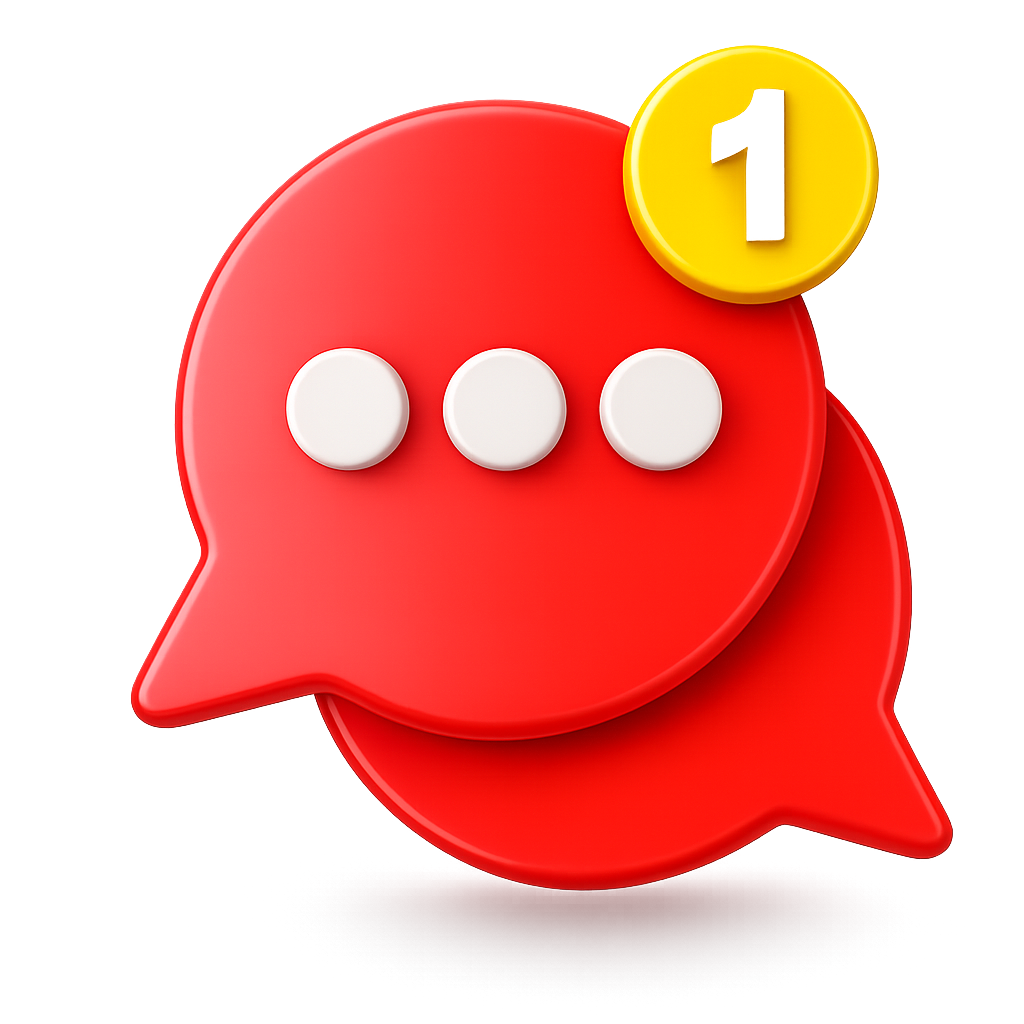
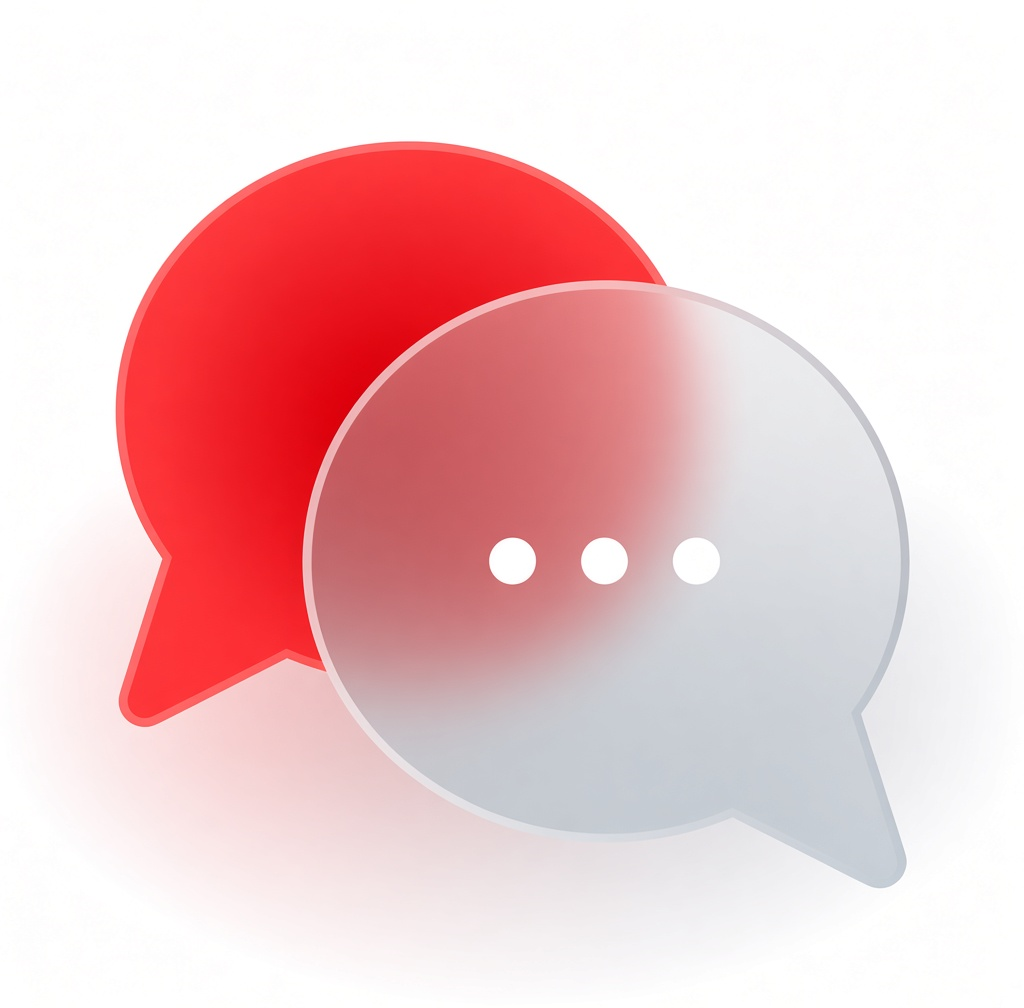
fix support pic

diff --git a/lib/features/support/screens/support_screen.dart b/lib/features/support/screens/support_screen.dart
@@ -18,7 +18,7 @@ class SupportScreen extends StatelessWidget {
 }
 
 class _SupportScreenContent extends StatefulWidget {
-  const _SupportScreenContent(); // خط زرد برطرف شد
+  const _SupportScreenContent();
 
   @override
   State<_SupportScreenContent> createState() => _SupportScreenContentState();
@@ -100,7 +100,6 @@ class _SupportScreenContentState extends State<_SupportScreenContent>
     );
   }
 
-  // پاپ آپ شیشهای مات با انیمیشن نرم
   void _showCreateTicketDialog(BuildContext context, bool isDark) {
     final subjectCtrl = TextEditingController();
     final orderIdCtrl = TextEditingController();
@@ -113,7 +112,7 @@ class _SupportScreenContentState extends State<_SupportScreenContent>
       backgroundColor: Colors.transparent,
       barrierColor: Colors.black54,
       builder: (_) {
-        bool isSubmitting = false; // متغیر برای مدیریت وضعیت دکمه
+        bool isSubmitting = false;
         return StatefulBuilder(
           builder: (context, setState) {
             return Padding(
@@ -127,7 +126,6 @@ class _SupportScreenContentState extends State<_SupportScreenContent>
                   child: Container(
                     padding: const EdgeInsets.all(24),
                     decoration: BoxDecoration(
-                      // رنگ بکگراند طبق CSS فرستاده شده
                       color: isDark
                           ? const Color.fromRGBO(36, 34, 34, 0.69)
                           : const Color.fromRGBO(250, 246, 246, 0.5),
@@ -202,7 +200,7 @@ class _SupportScreenContentState extends State<_SupportScreenContent>
                                 child: ElevatedButton(
                                   onPressed: isSubmitting ? null : () async {
                                     if (formKey.currentState!.validate()) {
-                                      setState(() => isSubmitting = true); // شروع لودینگ
+                                      setState(() => isSubmitting = true);
                                       final success = await context
                                           .read<SupportProvider>()
                                           .createTicket(
@@ -258,7 +256,6 @@ class _SupportScreenContentState extends State<_SupportScreenContent>
   }
 }
 
-// ویجت فیلد متنی برای پاپ آپ شیشهای
 class _GlassFormField extends StatelessWidget {
   const _GlassFormField({
     required this.controller,
@@ -298,7 +295,6 @@ class _GlassFormField extends StatelessWidget {
   }
 }
 
-// ── تب تیکتها ──
 class _TicketsTab extends StatelessWidget {
   const _TicketsTab({required this.isDark});
   final bool isDark;
@@ -362,7 +358,6 @@ class _TicketsTab extends StatelessWidget {
   }
 }
 
-// ── کارت تیکت (طراحی پروفایلمانند) ──
 class _TicketCard extends StatelessWidget {
   const _TicketCard({required this.ticket, required this.isDark, required this.onTap});
   final TicketModel ticket;
@@ -371,9 +366,9 @@ class _TicketCard extends StatelessWidget {
 
   Color _statusColor() {
     switch (ticket.status) {
-      case TicketStatus.open: return Colors.orange; // در انتظار پاسخ
-      case TicketStatus.answered: return Colors.blue; // پاسخ داده شد
-      case TicketStatus.closed: return Colors.green; // خوانده شد/بسته شد
+      case TicketStatus.open: return Colors.orange;
+      case TicketStatus.answered: return Colors.blue;
+      case TicketStatus.closed: return Colors.green;
     }
   }
 
@@ -399,9 +394,9 @@ class _TicketCard extends StatelessWidget {
                   color: AppColors.primary.withValues(alpha: 0.1),
                 ),
                 child: Center(
-                  // errorBuilder اضافه شد تا اگر عکس پیدا نشد کرش نکند
+                  // جای عکس پروفایل کاربر
                   child: Image.asset(
-                    'assets/images/ticket.png', 
+                    'assets/images/user_avatar.png', 
                     width: 32, height: 32,
                     errorBuilder: (context, error, stackTrace) => const Icon(Icons.person, color: AppColors.primary),
                   ),
@@ -443,7 +438,6 @@ class _TicketCard extends StatelessWidget {
   }
 }
 
-// ── صفحه جزئیات تیکت ──
 class _TicketDetailScreen extends StatefulWidget {
   const _TicketDetailScreen({required this.ticket});
   final TicketModel ticket;
@@ -545,7 +539,6 @@ class _TicketDetailScreenState extends State<_TicketDetailScreen> {
   }
 }
 
-// ── حباب پیام ──
 class _MessageBubble extends StatelessWidget {
   const _MessageBubble({required this.message, required this.isDark});
   final TicketMessageModel message;
@@ -626,7 +619,6 @@ class _MessageBubble extends StatelessWidget {
   }
 }
 
-// ── فیلد ارسال پیام ──
 class _MessageInput extends StatelessWidget {
   const _MessageInput({
     required this.controller,
@@ -717,7 +709,6 @@ class _MessageInput extends StatelessWidget {
   }
 }
 
-// ── تب تماس با ما (با عکسهای PNG) ──
 class _ContactTab extends StatelessWidget {
   const _ContactTab({required this.isDark});
   final bool isDark;
@@ -742,7 +733,13 @@ class _ContactTab extends StatelessWidget {
             ),
             child: Row(
               children: [
-                const Icon(Icons.support_agent_rounded, color: Colors.white, size: 40),
+                // جای عکس بنر (آیکون جایگزین میشود تا کرش نکند)
+                Image.asset(
+                  'assets/images/support_banner.png', 
+                  width: 40, height: 40,
+                  color: Colors.white,
+                  errorBuilder: (context, error, stackTrace) => const Icon(Icons.support_agent_rounded, color: Colors.white, size: 40),
+                ),
                 const SizedBox(width: 16),
                 const Expanded(
                   child: Column(
@@ -765,7 +762,7 @@ class _ContactTab extends StatelessWidget {
           ),
           const SizedBox(height: 20),
           _ContactCard(
-            imagePath: 'assets/images/phone.png',
+            imagePath: 'assets/icons/phone.png',
             title: 'تلفن پشتیبانی',
             subtitle: '021 - 1234 - 5678',
             badge: 'شنبه تا پنجشنبه ۸ تا ۲۲',
@@ -775,7 +772,7 @@ class _ContactTab extends StatelessWidget {
           ),
           const SizedBox(height: 12),
           _ContactCard(
-            imagePath: 'assets/images/whatsapp.png',
+            imagePath: 'assets/icons/whatsapp.png',
             title: 'واتساپ',
             subtitle: '09121234567',
             badge: '۲۴ ساعته',
@@ -795,7 +792,7 @@ class _ContactTab extends StatelessWidget {
           ),
           const SizedBox(height: 12),
           _ContactCard(
-            imagePath: 'assets/images/location.png',
+            imagePath: 'assets/icons/location.png',
             title: 'آدرس رستوران',
             subtitle: 'تهران، خیابان ولیعصر، پلاک ۱',
             badge: 'شنبه تا جمعه ۱۲ تا ۲۳',
@@ -900,7 +897,6 @@ class _ContactTab extends StatelessWidget {
   }
 }
 
-// ── کارت راه ارتباطی ──
 class _ContactCard extends StatelessWidget {
   const _ContactCard({
     required this.imagePath,
@@ -947,7 +943,7 @@ class _ContactCard extends StatelessWidget {
                   borderRadius: BorderRadius.circular(12),
                 ),
                 child: Center(
-                  // errorBuilder اضافه شد تا اگر عکس پیدا نشد کرش نکند
+                  // در صورت پیدا نشدن عکس، آیکون جایگزین میشود تا اپ کرش نکند
                   child: Image.asset(
                     imagePath, 
                     width: 24, 
